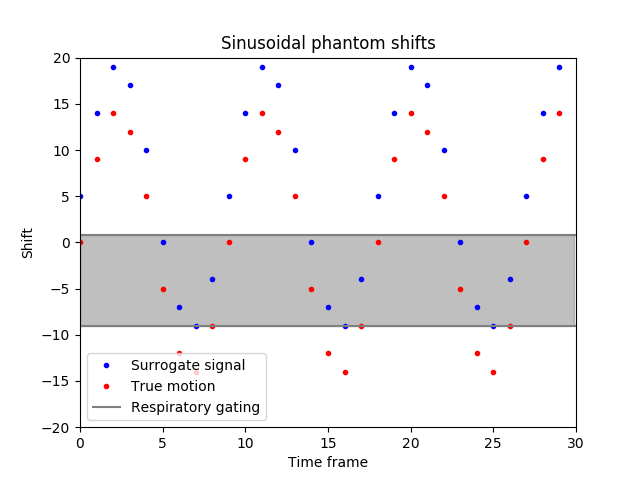
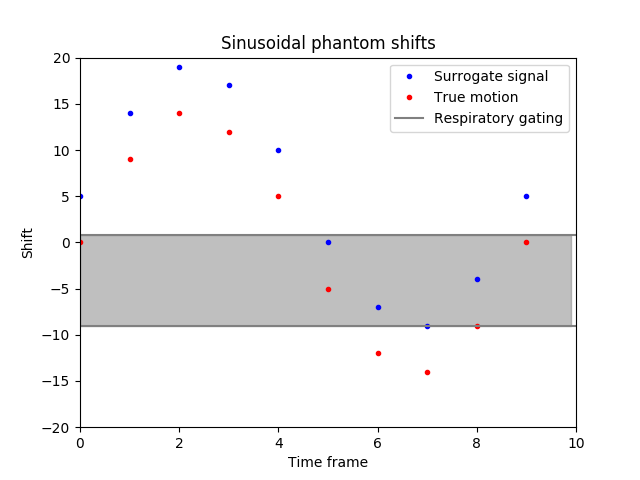
Gating finished

diff --git a/STIROefeningManon/MotionModelProjSpaceNoSTIR/GatingNoSTIR.py b/STIROefeningManon/MotionModelProjSpaceNoSTIR/GatingNoSTIR.py
@@ -8,20 +8,20 @@ import scipy as sp
 
 #_________________________CONFIGURATION_______________________________
 phantom = 'Shepp-Logan' 
-noise = False
+noise = True
 #noise = True
 #motion = 'Step' 
 motion = 'Sine'
-stationary = True 
+stationary = False 
 #stationary = False # Only possible for sinusoidal motion 
 
-nIt = 1
+nIt = 10
 trueShiftAmplitude = 15 # Kan niet alle waardes aannemen (niet alle shifts worden geprobeerd) + LET OP: kan niet groter zijn dan de lengte van het plaatje (kan de code niet aan) 
 trueOffset = 5
 numFigures = 0 
 duration = 60 # in seconds
 if (motion == 'Step'): nFrames = 2
-else: nFrames = 30
+else: nFrames = 10
 gating = True
 
 dir = './Figures/'
@@ -33,26 +33,20 @@ mf.write_Configuration(figSaveDir, phantom, noise, motion, stationary, nIt, true
 
 #_________________________MAKE PHANTOM_______________________________
 image2D = mf.make_Phantom(phantom, duration)
-plt.figure(), plt.title('Original image'), plt.imshow(image2D, cmap=plt.cm.Greys_r, interpolation = None, vmin = 0, vmax = np.max(image2D)), plt.savefig(figSaveDir + 'Fig{}_TrueShift{}_phantom.png'.format(numFigures, trueShiftAmplitude)), plt.close()
+plt.figure(), plt.title('Original image'), plt.imshow(image2D, interpolation = None, vmin = 0, vmax = np.max(image2D)), plt.savefig(figSaveDir + 'Fig{}_TrueShift{}_phantom.png'.format(numFigures, trueShiftAmplitude)), plt.close()
 numFigures += 1
 
 
 #_________________________ADD MOTION_______________________________ 
 nonGatedPhantomList, nonGatedSurSignal, nonGatedShiftList = mf.move_Phantom(motion, nFrames, trueShiftAmplitude, trueOffset, image2D, stationary)
 
+
+#_________________________GATING_______________________________ 
 maxSurSignal = np.max(nonGatedSurSignal) 
 minSurSignal = np.min(nonGatedSurSignal)
 gateMin = minSurSignal
 gateMax = minSurSignal + 0.35*(maxSurSignal - minSurSignal)
-
-surSignal = []
-phantomList = []
-shiftList = []
-for i in range(len(nonGatedSurSignal)): 
-    if ((nonGatedSurSignal[i] <= gateMax) and (nonGatedSurSignal[i] >= gateMin)): 
-        surSignal.append(nonGatedSurSignal[i])
-        phantomList.append(nonGatedPhantomList[i])
-        shiftList.append(nonGatedShiftList[i])
+surSignal, phantomList, shiftList = mf.gating(nonGatedSurSignal, nonGatedPhantomList, nonGatedShiftList, gateMin, gateMax)
 
 # Visualization of gating 
 x = np.arange(0, len(nonGatedPhantomList), 0.1)
@@ -78,18 +72,15 @@ for iFrame in range(len(phantomList)):
     if (iFrame == 0): measWithNoise = meas
     measList.append(meas) 
 
-plt.subplot(1,2,1), plt.title('Without noise'), plt.imshow(measNoNoise, cmap=plt.cm.Greys_r, interpolation=None, vmin = 0, vmax = 1000)
-plt.subplot(1,2,2), plt.title('With noise'), plt.imshow(measWithNoise, cmap=plt.cm.Greys_r, interpolation=None, vmin = 0, vmax = 1000)
+plt.subplot(1,2,1), plt.title('Without noise'), plt.imshow(measNoNoise, interpolation=None, vmin = 0, vmax = 1000)
+plt.subplot(1,2,2), plt.title('With noise'), plt.imshow(measWithNoise, interpolation=None, vmin = 0, vmax = 1000)
 plt.suptitle('Time Frame 1'), plt.savefig(figSaveDir + 'Fig{}_TrueShift{}_measurementsWithWithoutNoise.png'.format(numFigures, trueShiftAmplitude)), plt.close()
 numFigures += 1 
 
 
 #_________________________INITIAL GUESS_______________________________
-reconList = []
-for iFrame in range(len(measList)): 
-    reconList.append(iradon(measList[iFrame], iAngles)) 
-guess = np.mean(reconList, axis = 0)
-plt.figure(), plt.title('Initial guess'), plt.imshow(guess, cmap=plt.cm.Greys_r, interpolation = None, vmin = 0, vmax = np.max(image2D)), plt.savefig(figSaveDir + 'Fig{}_TrueShift{}_InitialGuess.png'.format(numFigures, trueShiftAmplitude)), plt.close() 
+guess = np.ones(np.shape(phantomList[0]))[0,:,:]
+plt.figure(), plt.title('Initial guess'), plt.imshow(guess, interpolation = None, vmin = 0, vmax = np.max(image2D)), plt.savefig(figSaveDir + 'Fig{}_TrueShift{}_InitialGuess.png'.format(numFigures, trueShiftAmplitude)), plt.close() 
 numFigures += 1
 
 
@@ -99,28 +90,22 @@ norm = iradon(normSino, iAngles, filter = None) # We willen nu geen ramp filter
 
 
 #_________________________NESTED EM LOOP_______________________________
-guessSum = []
-guessSum.append(np.sum(guess))
 for iIt in range(nIt): 
     for iFrame in range(len(surSignal)): 
-        shiftedGuess = np.zeros(np.shape(guess))
-        shiftedGuess = guess 
-        shiftedGuessSinogram = radon(shiftedGuess, iAngles) 
-        error = measList[iFrame]/shiftedGuessSinogram 
+        guessSinogram = radon(guess, iAngles)
+        error = measList[iFrame]/guessSinogram 
         error[np.isnan(error)] = 0
         error[np.isinf(error)] = 0
         error[error > 1E10] = 0;
         error[error < 1E-10] = 0
         errorBck = iradon(error, iAngles, filter = None) 
-        errorBckShifted = errorBck
-        guess *= errorBckShifted
+        guess *= errorBck 
     guess /= norm 
-    guessSum.append(np.sum(guess))
     countIt = iIt+1 
 
-    plt.figure(), plt.title('Guess after {0} iteration(s)'.format(iIt+1)), plt.imshow(guess, cmap=plt.cm.Greys_r, interpolation = None, vmin = 0, vmax = np.max(image2D)), plt.savefig(figSaveDir + 'Fig{}_TrueShift{}_finalImage.png'.format(numFigures, trueShiftAmplitude)), plt.close()
+    plt.figure(), plt.title('Guess after {0} iteration(s)'.format(iIt+1)), plt.imshow(guess, interpolation = None, vmin = 0, vmax = np.max(image2D)), plt.savefig(figSaveDir + 'Fig{}_TrueShift{}_finalImage.png'.format(numFigures, trueShiftAmplitude)), plt.close()
     numFigures += 1  
 
-plt.figure(), plt.subplot(1,2,1), plt.title('Original Image'), plt.imshow(image2D, cmap=plt.cm.Greys_r, interpolation=None, vmin = 0, vmax = np.max(image2D))
-plt.subplot(1,2,2), plt.title('Reconstructed Image'), plt.imshow(guess, cmap=plt.cm.Greys_r, interpolation=None, vmin = 0, vmax = np.max(image2D)), plt.savefig(figSaveDir + 'Fig{}_TrueShift{}_originalAndRecon.png'.format(numFigures, trueShiftAmplitude)), plt.close() 
+plt.figure(), plt.subplot(1,2,1), plt.title('Original Image'), plt.imshow(image2D, interpolation=None, vmin = 0, vmax = np.max(image2D))
+plt.subplot(1,2,2), plt.title('Reconstructed Image'), plt.imshow(guess, interpolation=None, vmin = 0, vmax = np.max(image2D)), plt.savefig(figSaveDir + 'Fig{}_TrueShift{}_originalAndRecon.png'.format(numFigures, trueShiftAmplitude)), plt.close() 
 numFigures += 1 

diff --git a/STIROefeningManon/MotionModelProjSpaceNoSTIR/ManonsFunctions.py b/STIROefeningManon/MotionModelProjSpaceNoSTIR/ManonsFunctions.py
@@ -91,3 +91,15 @@ def write_Configuration(figSaveDir, phantom, noise, motion, stationary, nIt, tru
     file.write("Number of time frames: {}\n".format(nFrames))
     file.write("Gating: {}\n".format(gating))
     file.close()
+
+def gating(nonGatedSurSignal, nonGatedPhantomList, nonGatedShiftList, gateMin, gateMax): 
+    surSignal = []
+    phantomList = []
+    shiftList = []
+    for i in range(len(nonGatedSurSignal)): 
+        if ((nonGatedSurSignal[i] <= gateMax) and (nonGatedSurSignal[i] >= gateMin)): 
+            surSignal.append(nonGatedSurSignal[i])
+            phantomList.append(nonGatedPhantomList[i])
+            shiftList.append(nonGatedShiftList[i])
+    
+    return (surSignal, phantomList, shiftList) 
